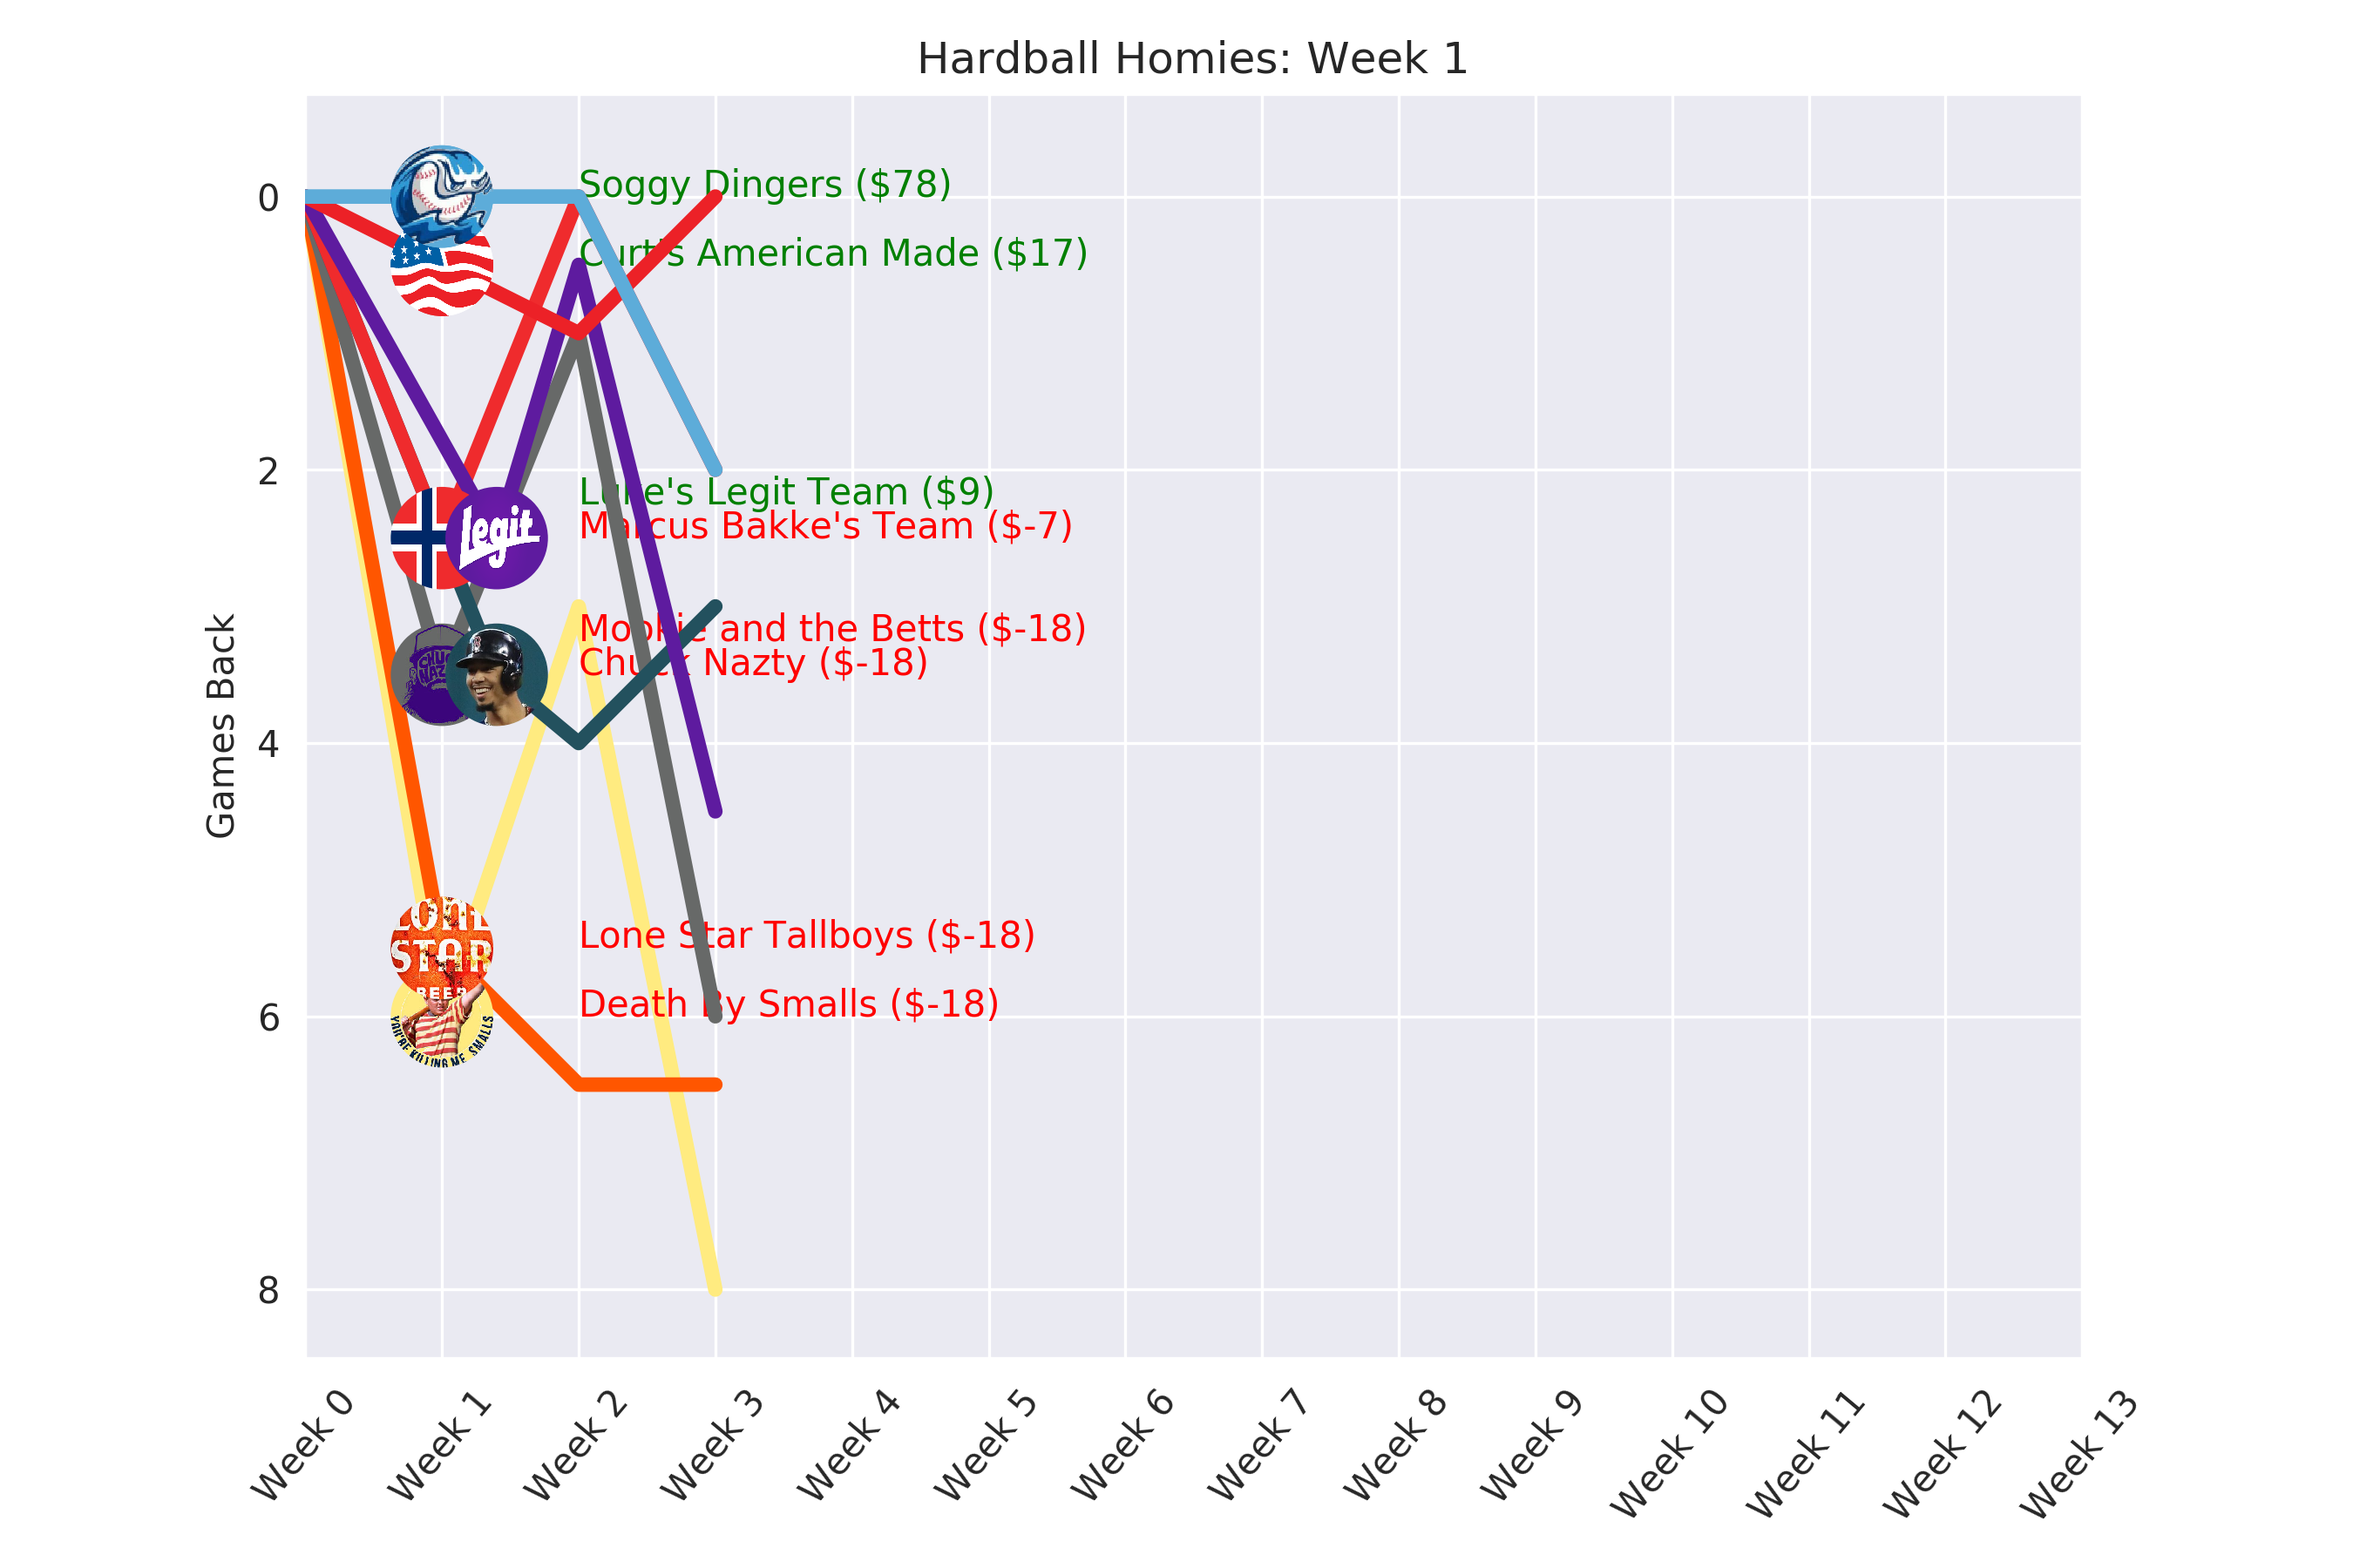
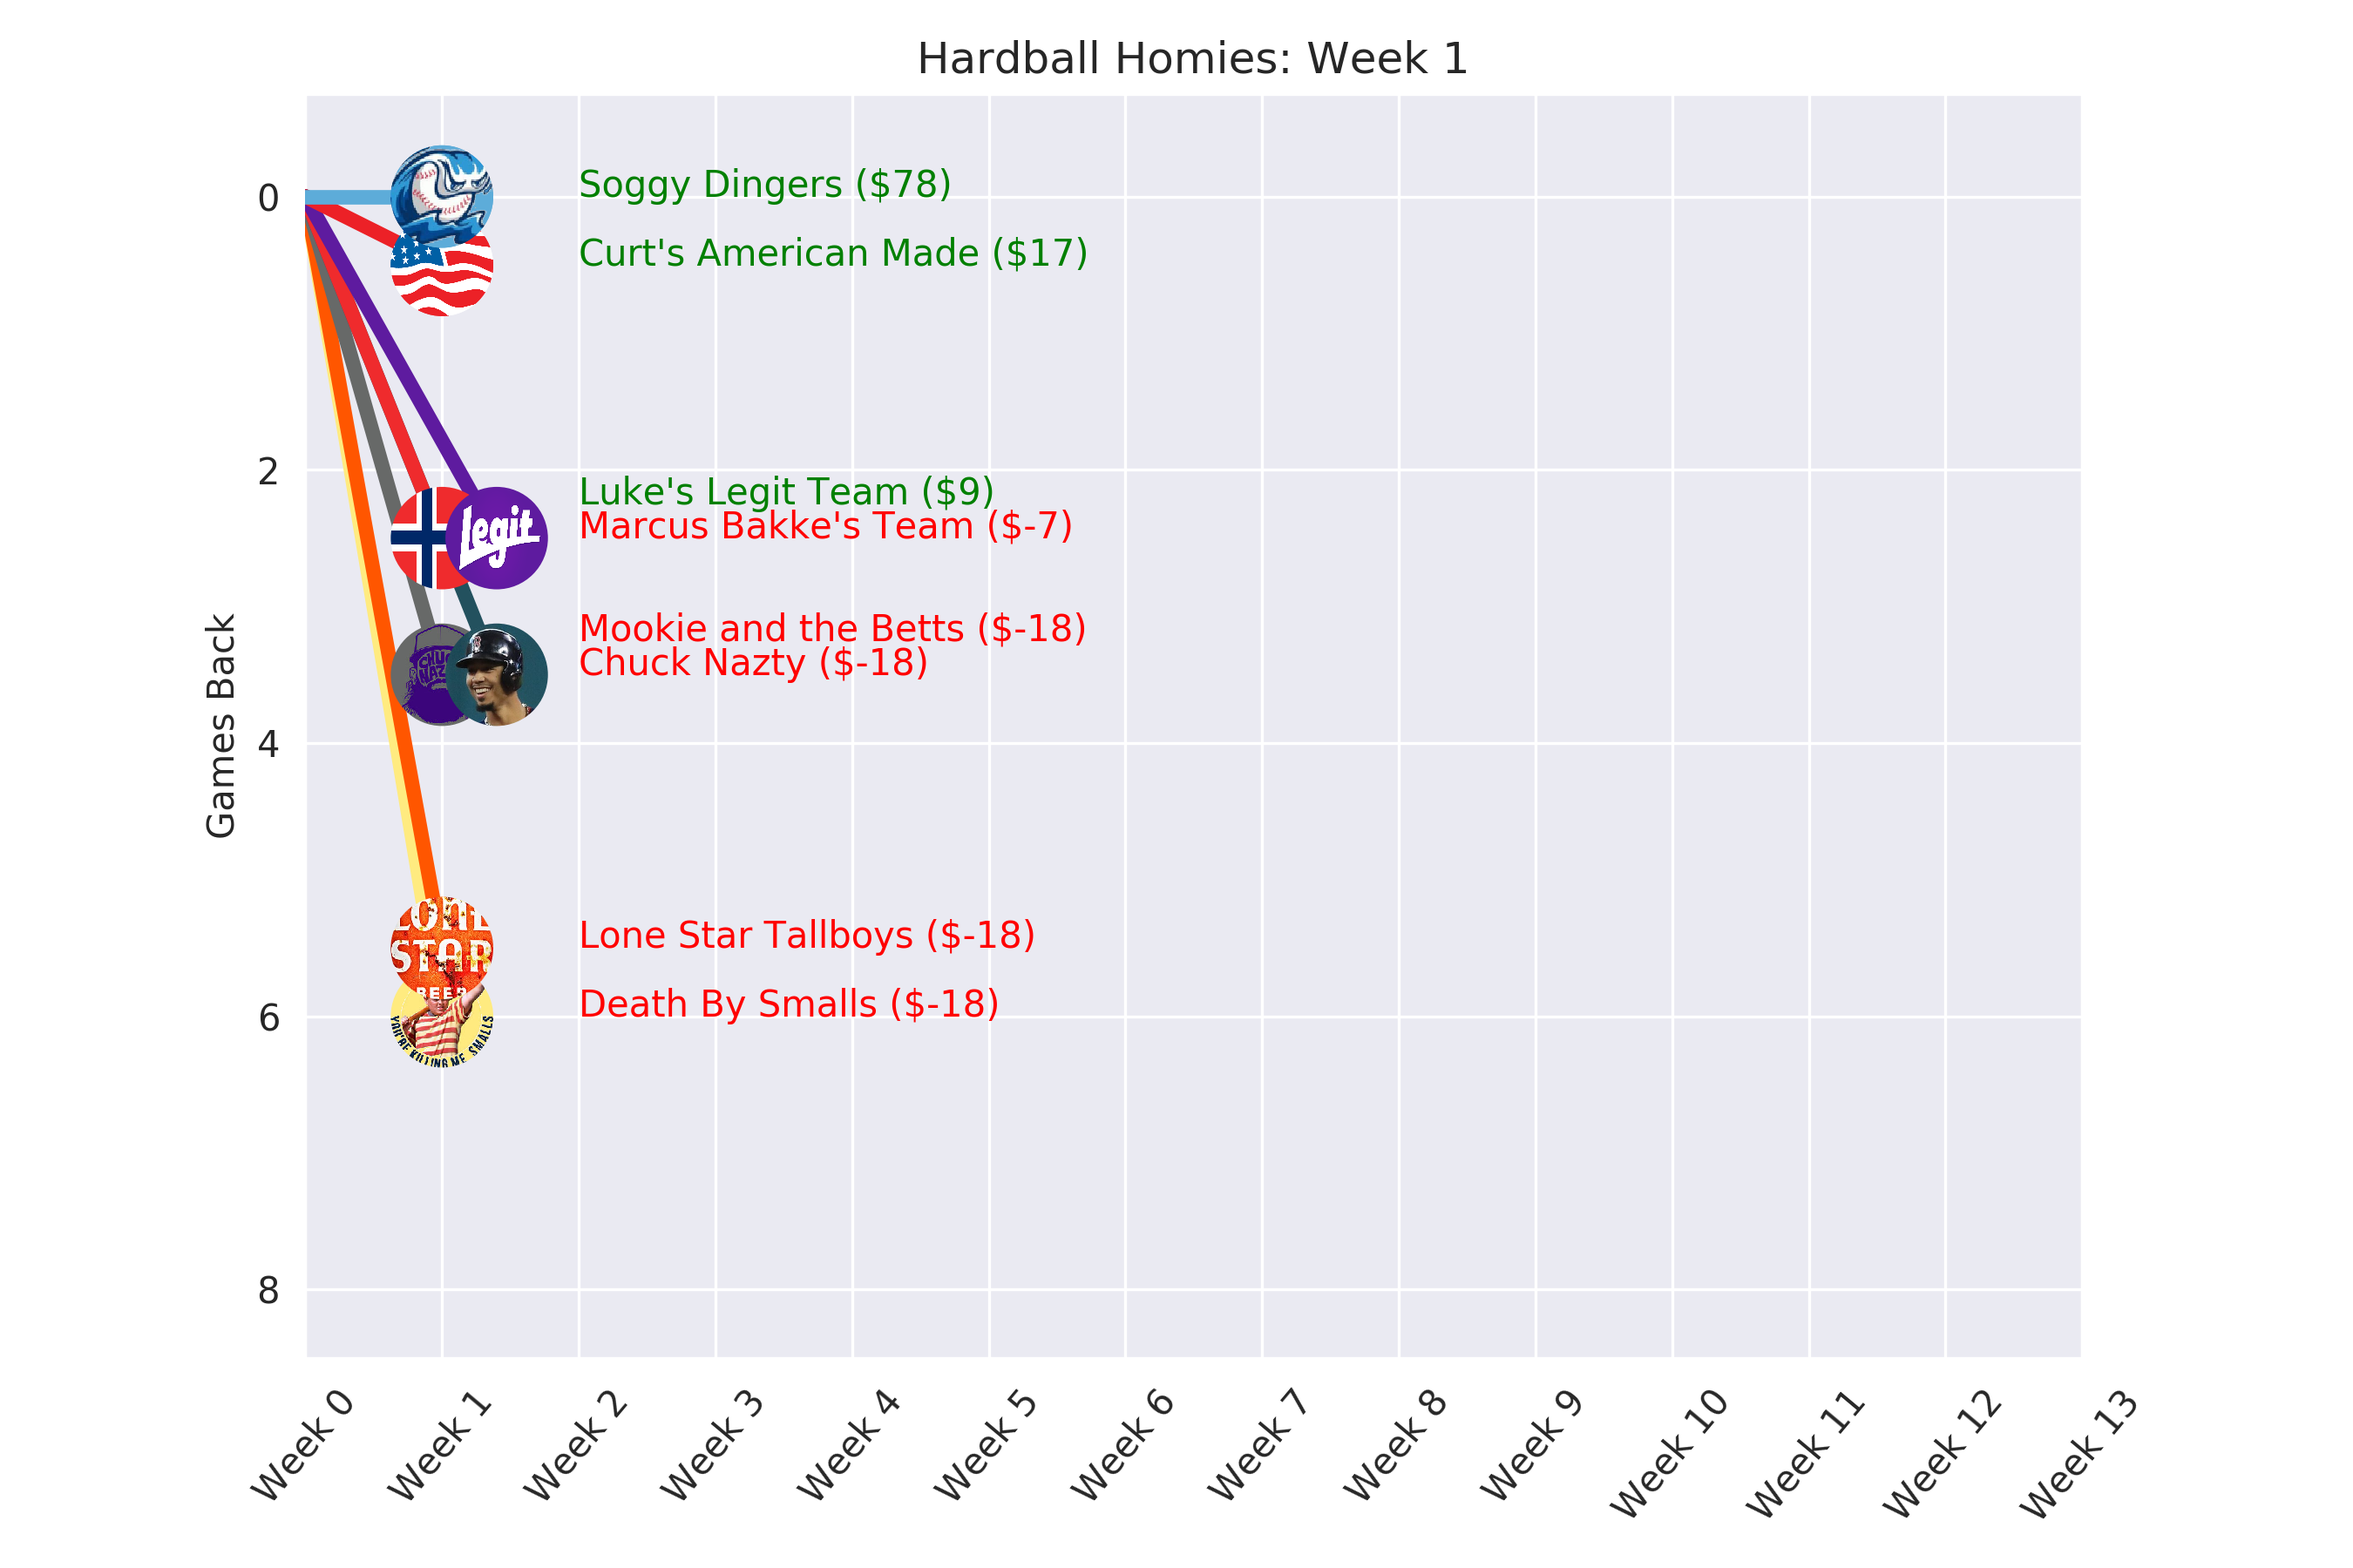
updated to work for past weeks

Changed region(s): [[0.1867, 0.0933, 0.3111, 0.84], [0.2178, 0.6533, 0.2489, 0.6844], [0.1867, 0.6222, 0.2178, 0.6533]]

diff --git a/plot_standings.py b/plot_standings.py
@@ -1,9 +1,6 @@
 # Given a user specified week#, plot_standings.py will look for
 # csv files (standings_wk*_clean.csv) and plot the weekly standings
 # of the hometown homies fantasy league
-# NOTE: currently this only works for the most current week
-# i.e., trying to plot previous weeks doesn't place the team logos
-# corretly -- need to fix this
 
 import matplotlib.pyplot as plt
 import seaborn as sns
@@ -112,7 +109,7 @@ for i, team in enumerate(games_back.index):
     rgbs = np.concatenate((image[0], image[1], image[2]))
     rgb = stats.mode(rgbs)[0][0]
     # plot line of games_back data
-    ax.plot(x_int, y, linewidth=4, c=rgb, zorder=zo)
+    ax.plot(x_int[:current_week+1], y[:current_week+1], linewidth=4, c=rgb, zorder=zo)
 
 ax.set_xticks(np.arange(0,14))
 ax.set_xticklabels(games_back.columns)
